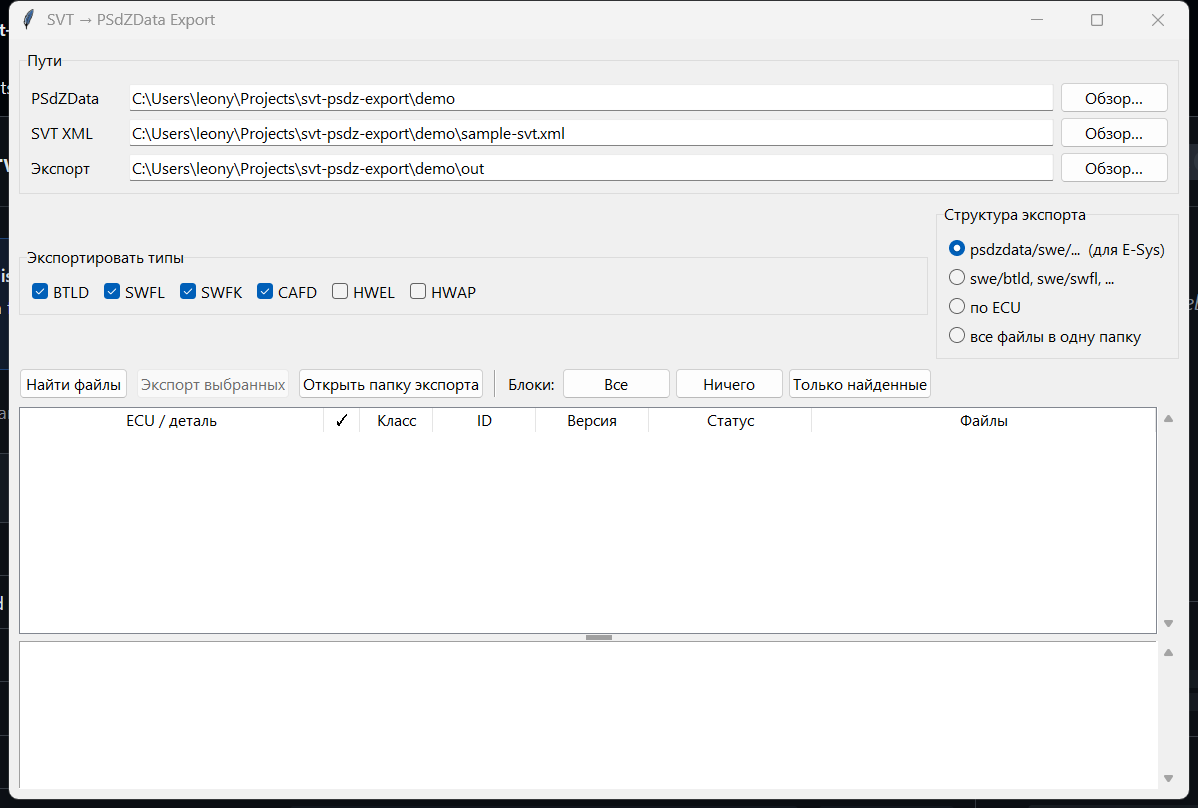
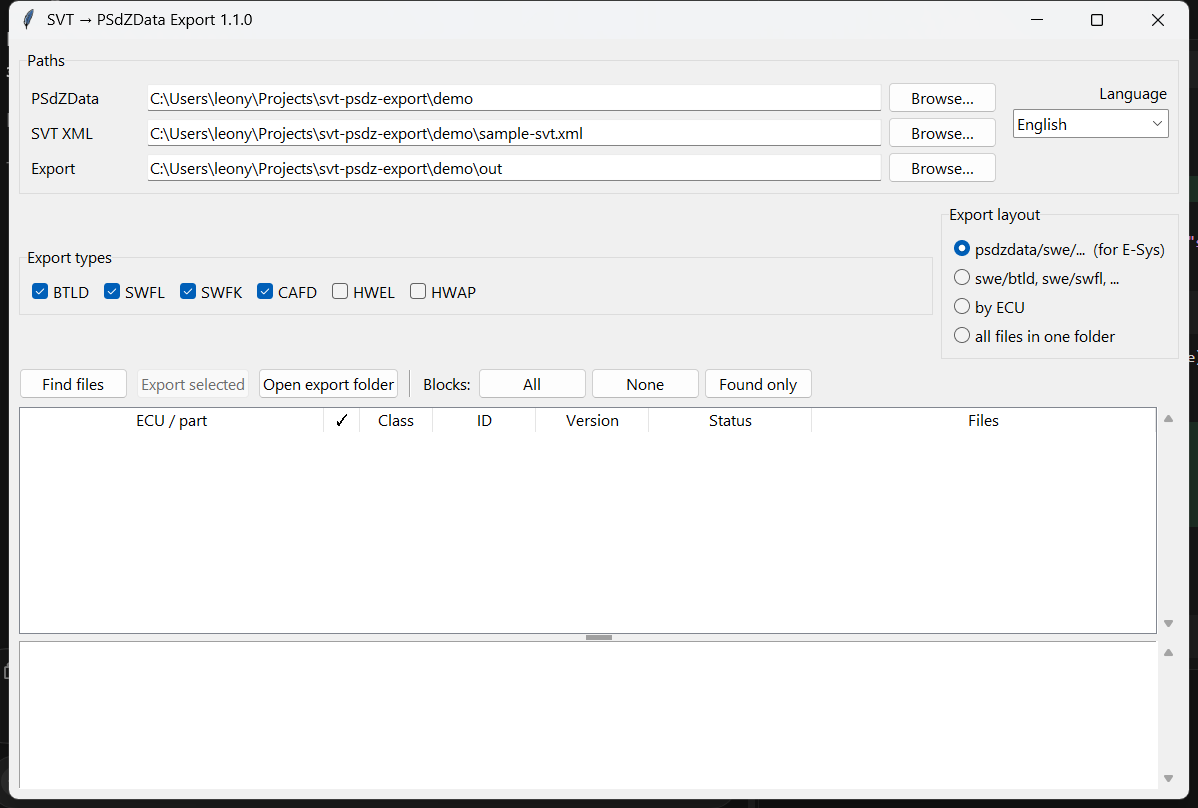
Refresh README screenshots in English for 1.1.0.

diff --git a/demo/capture_screens.py b/demo/capture_screens.py
@@ -14,6 +14,7 @@ if str(ROOT) not in sys.path:
     sys.path.insert(0, str(ROOT))
 
 from app import App  # noqa: E402
+from i18n import LANG_NAMES  # noqa: E402
 
 SHOTS = Path(__file__).resolve().parent / "screenshots"
 user32 = ctypes.windll.user32
@@ -52,6 +53,10 @@ def main() -> None:
     SHOTS.mkdir(parents=True, exist_ok=True)
 
     app = App()
+    app.remember_paths = False
+    app._lang = "en"
+    app.lang_var.set(LANG_NAMES["en"])
+    app._apply_language()
     app.load_demo_paths()
     app.update_idletasks()
     width, height = 1180, 760
